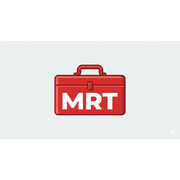
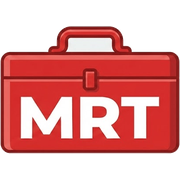
icpon fixes

diff --git a/generate_icons.py b/generate_icons.py
@@ -1,5 +1,50 @@
 import os
-from PIL import Image
+from PIL import Image, ImageDraw
+
+def is_near_white(pixel, fuzz=50):
+    """Returns True if the pixel is white or close to white."""
+    # Pixel can be (R, G, B) or (R, G, B, A)
+    r, g, b = pixel[:3]
+    return r > (255 - fuzz) and g > (255 - fuzz) and b > (255 - fuzz)
+
+def remove_background_and_inner_holes(img, fuzz=60):
+    """
+    1. Floods the outer background.
+    2. Scans the top-center to find and remove the 'handle hole'.
+    3. Trims the result.
+    """
+    img = img.convert("RGBA")
+    width, height = img.size
+    
+    # --- STEP 1: REMOVE OUTER BACKGROUND ---
+    # Flood from corners
+    ImageDraw.floodfill(img, xy=(0, 0), value=(0, 0, 0, 0), thresh=fuzz)
+    ImageDraw.floodfill(img, xy=(width-1, 0), value=(0, 0, 0, 0), thresh=fuzz)
+    ImageDraw.floodfill(img, xy=(0, height-1), value=(0, 0, 0, 0), thresh=fuzz)
+    ImageDraw.floodfill(img, xy=(width-1, height-1), value=(0, 0, 0, 0), thresh=fuzz)
+    
+    # --- STEP 2: REMOVE HANDLE HOLE (The "Hole Hunter") ---
+    # We assume the handle is in the top 30% of the image and centered.
+    # We scan down the center line. If we hit white, we zap it.
+    center_x = width // 2
+    scan_depth = int(height * 0.4) # Scan top 40% only (to avoid hitting the MRT text)
+    
+    for y in range(scan_depth):
+        pixel = img.getpixel((center_x, y))
+        
+        # If the pixel is white (and not transparent already)
+        if is_near_white(pixel, fuzz) and pixel[3] > 0:
+            print(f"🎯 Found handle hole at ({center_x}, {y}). Zapping it!")
+            ImageDraw.floodfill(img, xy=(center_x, y), value=(0, 0, 0, 0), thresh=fuzz)
+            break # Stop after finding the first hole so we don't accidentally hit text below
+            
+    # --- STEP 3: TRIM ---
+    bbox = img.getbbox()
+    if bbox:
+        left, top, right, bottom = bbox
+        return img.crop((left-1, top-1, right+1, bottom+1))
+    
+    return img
 
 def generate_pwa_icons(source_file):
     if not os.path.exists(source_file):
@@ -7,67 +52,54 @@ def generate_pwa_icons(source_file):
         return
 
     try:
-        # 1. Open and convert to RGBA (Transparency support)
-        img = Image.open(source_file).convert("RGBA")
+        print(f"Opening {source_file}...")
+        img = Image.open(source_file)
         
-        # 2. AUTO-TRIM: Remove transparent whitespace around the logo
-        # This gets the bounding box of the non-zero regions
-        bbox = img.getbbox()
-        if bbox:
-            img = img.crop(bbox)
-            print("✂  Trimmed transparent whitespace from source image.")
+        # PROCESS: Remove Background -> Zap Handle -> Trim -> Ready
+        img = remove_background_and_inner_holes(img, fuzz=60)
+        print(f"✅ Background & Handle removed. New Size: {img.size}")
         
-        print(f"ℹ  Focused Logo Size: {img.size[0]}x{img.size[1]}")
-
     except Exception as e:
         print(f"❌ Error processing image: {e}")
         return
     
-    # 3. Define sizes
-    # Format: (Filename, Size, Padding_Percentage)
-    # We use 0.0 (0%) padding for standard icons to make them HUGE.
-    # We use 0.1 (10%) for maskable to ensure it's "Safe Zone" compliant on Android.
+    # Define sizes
     icons = [
         ("favicon.ico", 64, 0.0),                    
         ("apple-touch-icon-180x180.png", 180, 0.0), 
         ("pwa-192x192.png", 192, 0.0),              
         ("pwa-512x512.png", 512, 0.0),              
-        ("maskable-icon-512x512.png", 512, 0.15) # Maskable needs ~15% padding to not be cut off
+        ("maskable-icon-512x512.png", 512, 0.10) 
     ]
 
     output_dir = "pwa-assets"
     if not os.path.exists(output_dir):
         os.makedirs(output_dir)
 
-    print(f"🚀 Generating Maximized Icons...")
+    print(f"🚀 Generating Transparent Icons...")
 
     for filename, size, padding_pct in icons:
         # Create clear canvas
         canvas = Image.new("RGBA", (size, size), (255, 255, 255, 0))
         
-        # Calculate max allowable size inside the canvas (accounting for padding)
+        # Max size calculation
         max_dim = int(size * (1 - padding_pct * 2))
         
-        # Calculate aspect-safe resize
+        # Aspect-Ratio Preserving Resize
         img_ratio = img.width / img.height
-        
         if img_ratio > 1:
-            # Width is bigger (Landscape)
             new_w = max_dim
             new_h = int(max_dim / img_ratio)
         else:
-            # Height is bigger (Portrait)
             new_h = max_dim
             new_w = int(max_dim * img_ratio)
             
-        # Resize trimmed logo
         resized_logo = img.resize((new_w, new_h), Image.Resampling.LANCZOS)
         
         # Center Position
         x_pos = (size - new_w) // 2
         y_pos = (size - new_h) // 2
         
-        # Paste
         canvas.paste(resized_logo, (x_pos, y_pos))
         
         save_path = os.path.join(output_dir, filename)
@@ -78,7 +110,7 @@ def generate_pwa_icons(source_file):
             
         print(f"✅ Created: {filename}")
 
-    print("\n🎉 Done! Icons are now maximized (trimmed of whitespace).")
+    print("\n🎉 Done! The handle hole should now be transparent.")
 
 if __name__ == "__main__":
     generate_pwa_icons("Logo.png")
